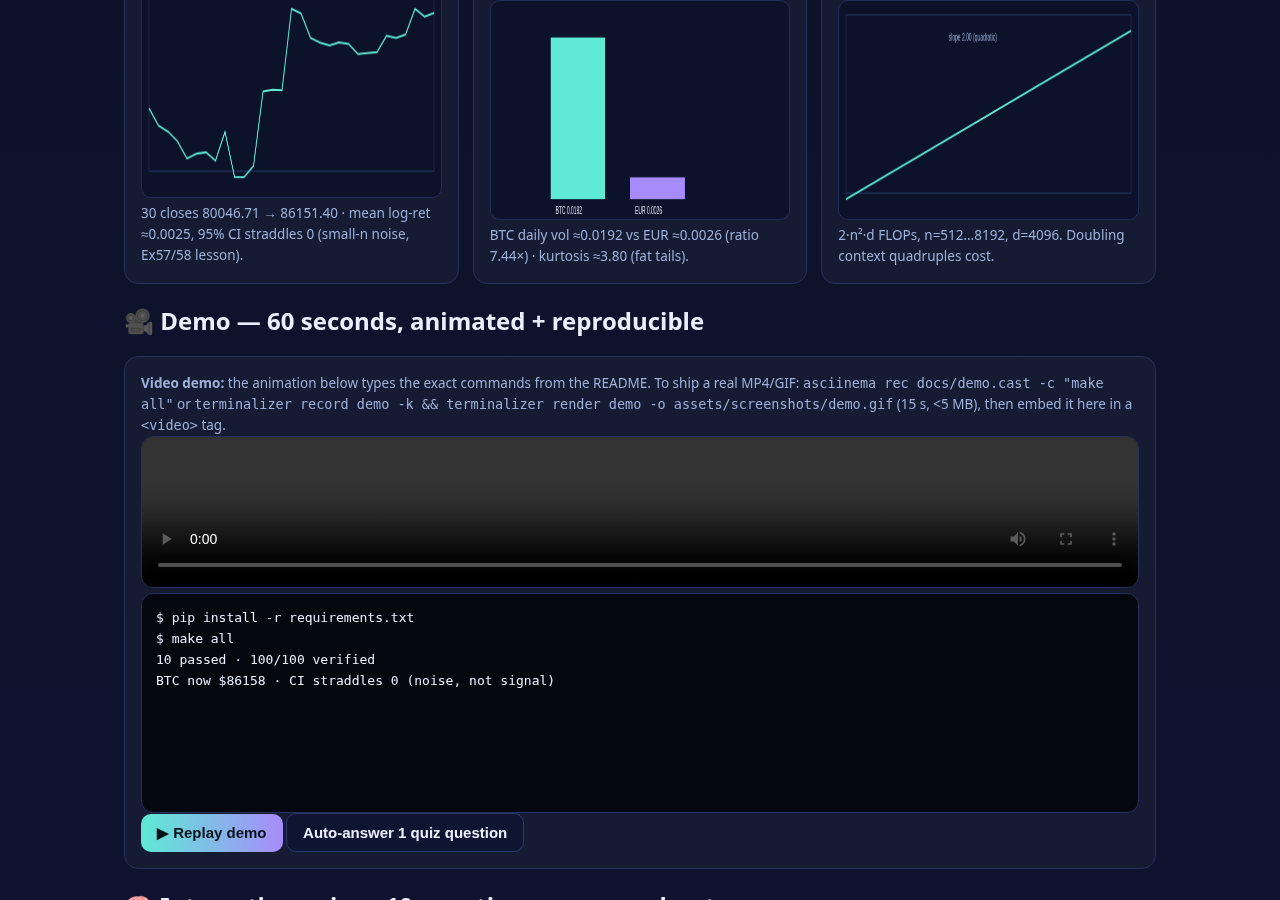
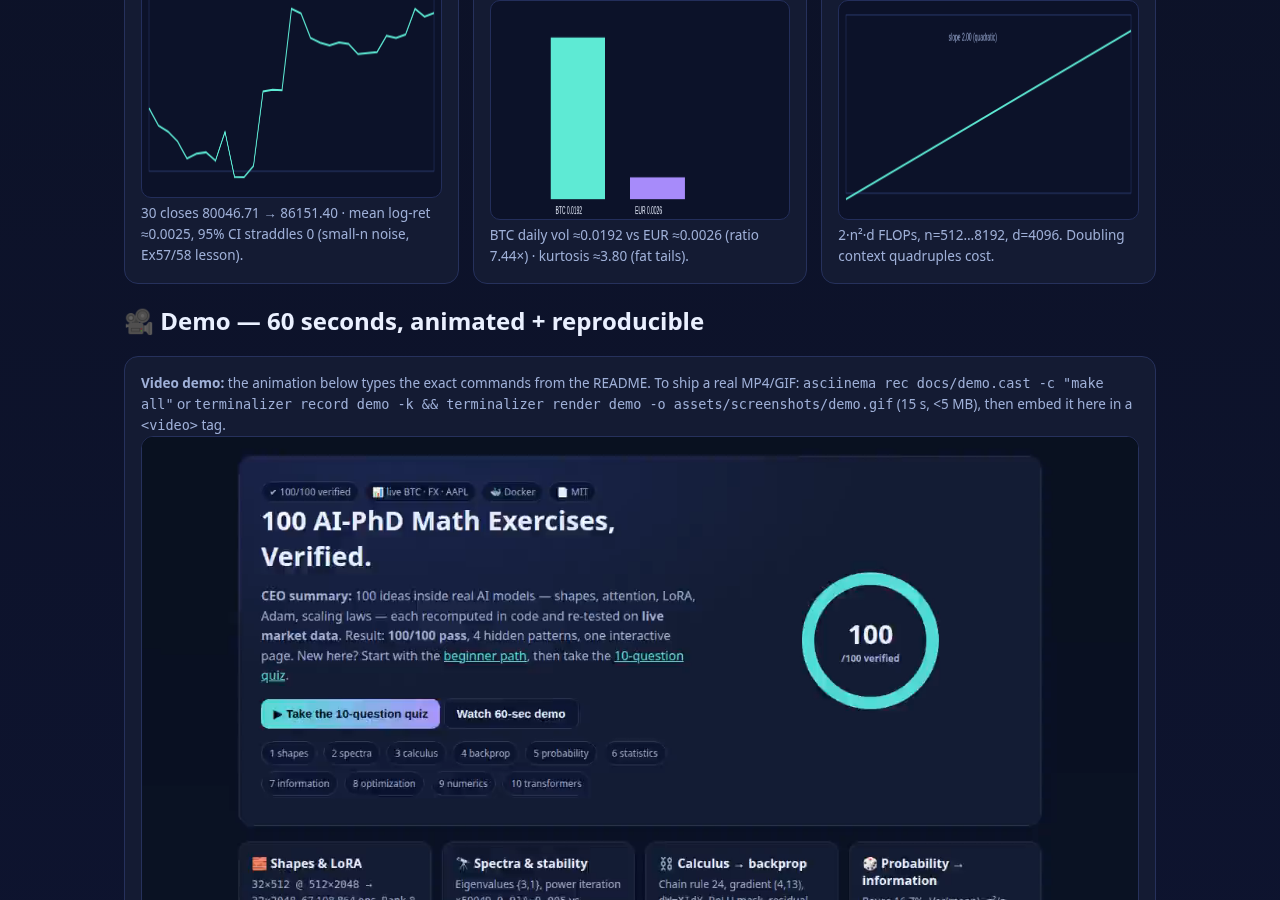
Pages 404 fix: root preview/index/nojekyll mirrors + live URLs in README

Changed region(s): [[0.0938, 0.4667, 0.9062, 1.0], [0.0938, 0.9956, 0.1562, 1.0]]

diff --git a/preview.html b/preview.html
@@ -1,0 +1,127 @@
+<!DOCTYPE html>
+<html lang="en">
+<head>
+<meta charset="utf-8">
+<meta name="viewport" content="width=device-width, initial-scale=1">
+<title>100 AI-PhD Math Exercises — Verified 100/100 + Live Market Data</title>
+<meta name="description" content="Every one of 100 AI math ideas recomputed in code, tested on live Bitcoin/FX/Apple data. Interactive charts, 10-question quiz, animated demo.">
+<style>
+:root{--bg:#0b1020;--card:#141b33;--ink:#eaf0ff;--mut:#9fb0d8;--acc:#5eead4;--acc2:#a78bfa;--good:#34d399;--bad:#f87171;--warn:#fbbf24}
+*{box-sizing:border-box}body{margin:0;font-family:Inter,system-ui,Segoe UI,Roboto,Arial,sans-serif;background:linear-gradient(180deg,#0b1020,#0e1430 40%,#0b1020);color:var(--ink)}
+.wrap{max-width:1080px;margin:0 auto;padding:24px}
+.hero{display:grid;grid-template-columns:1.2fr .8fr;gap:20px;align-items:center;padding:28px;background:radial-gradient(600px 300px at 20% 0%,#1b2450,transparent),var(--card);border:1px solid #26315c;border-radius:18px}
+h1{font-size:34px;margin:0 0 8px}.sub{color:var(--mut);line-height:1.6}
+.badges span{display:inline-block;background:#0e1530;border:1px solid #2b3a6e;border-radius:999px;padding:4px 10px;margin:4px 6px 0 0;font-size:12px;color:var(--mut)}
+.ring{width:190px;height:190px;margin:0 auto;position:relative}
+.ring svg{transform:rotate(-90deg)}.ring b{position:absolute;inset:0;display:flex;flex-direction:column;align-items:center;justify-content:center;font-size:34px}
+.ring small{font-size:12px;color:var(--mut)}
+.grid{display:grid;grid-template-columns:repeat(auto-fit,minmax(240px,1fr));gap:14px;margin:20px 0}
+.card{background:var(--card);border:1px solid #26315c;border-radius:14px;padding:16px}
+.card h3{margin:0 0 6px;font-size:16px}.card p{margin:0;color:var(--mut);font-size:13.5px;line-height:1.55}
+a{color:var(--acc)}button{background:linear-gradient(90deg,var(--acc),var(--acc2));border:0;color:#06121a;font-weight:700;border-radius:10px;padding:10px 16px;cursor:pointer;font-size:15px}
+button.ghost{background:#0e1530;color:var(--ink);border:1px solid #2b3a6e}
+canvas{width:100%;height:220px;background:#0c1229;border:1px solid #232e5b;border-radius:10px}
+.q{border:1px solid #2b3a6e;border-radius:12px;padding:14px;margin:12px 0;background:#10173a}
+.q h4{margin:0 0 8px}.opt{display:block;width:100%;text-align:left;margin:6px 0;background:#0c1330;color:var(--ink);border:1px solid #2b3a6e;font-weight:400}
+.opt.correct{border-color:var(--good);background:#0b2b22}.opt.wrong{border-color:var(--bad);background:#2b1215}
+.exp{display:none;color:var(--mut);font-size:13px;margin-top:8px;line-height:1.5}.exp.show{display:block}
+.term{background:#05070f;border:1px solid #26315c;border-radius:12px;padding:14px;font-family:ui-monospace,Menlo,Consolas,monospace;font-size:13px;min-height:220px;white-space:pre-wrap;line-height:1.6}
+.bar{height:10px;background:#0c1330;border-radius:99px;overflow:hidden;border:1px solid #26315c}.bar i{display:block;height:100%;width:0;background:linear-gradient(90deg,var(--acc),var(--acc2))}
+.steps{display:flex;gap:8px;flex-wrap:wrap;margin:10px 0}.steps span{background:#0e1530;border:1px solid #2b3a6e;padding:6px 10px;border-radius:99px;font-size:12px;color:var(--mut)}
+.steps span.on{background:#12312b;color:var(--acc);border-color:var(--acc)}
+table{width:100%;border-collapse:collapse;font-size:13px}th,td{border-bottom:1px solid #22305c;padding:8px;text-align:left}th{color:var(--mut)}
+@media(max-width:800px){.hero{grid-template-columns:1fr}h1{font-size:26px}}
+</style>
+</head>
+<body>
+<div class="wrap">
+<div class="hero" id="top">
+<div>
+<div class="badges"><span>✔ 100/100 verified</span><span>📊 live BTC · FX · AAPL</span><span>🐳 Docker</span><span>📄 MIT</span></div>
+<h1>100 AI-PhD Math Exercises, Verified.</h1>
+<p class="sub"><b>CEO summary:</b> 100 ideas inside real AI models — shapes, attention, LoRA, Adam, scaling laws — each recomputed in code and re-tested on <b>live market data</b>. Result: <b>100/100 pass</b>, 4 hidden patterns, one interactive page. New here? Start with the <a href="#beginner">beginner path</a>, then take the <a href="#quiz">10-question quiz</a>.</p>
+<p><button onclick="document.getElementById('quiz').scrollIntoView({behavior:'smooth'})">▶ Take the 10-question quiz</button>
+<button class="ghost" onclick="document.getElementById('demo').scrollIntoView({behavior:'smooth'})">Watch 60-sec demo</button></p>
+<div class="steps" id="path"><span>1 shapes</span><span>2 spectra</span><span>3 calculus</span><span>4 backprop</span><span>5 probability</span><span>6 statistics</span><span>7 information</span><span>8 optimization</span><span>9 numerics</span><span>10 transformers</span></div>
+</div>
+<div class="ring">
+<svg width="190" height="190" viewBox="0 0 190 190"><circle cx="95" cy="95" r="80" fill="none" stroke="#22305c" stroke-width="16"/><circle id="ringArc" cx="95" cy="95" r="80" fill="none" stroke="#5eead4" stroke-width="16" stroke-linecap="round" stroke-dasharray="502.6" stroke-dashoffset="0"/></svg>
+<b>100<small>/100 verified</small></b>
+</div>
+</div>
+
+<div class="grid">
+<div class="card"><h3>🧱 Shapes &amp; LoRA</h3><p><code>32×512 @ 512×2048 → 32×2048</code>, 67,108,864 ops. Rank-8 LoRA tunes 65,536 numbers instead of 16,777,216 (0.39%). Broadcasting <code>32×1×64 + 1×10×64 → 32×10×64</code>.</p></div>
+<div class="card"><h3>🔭 Spectra &amp; stability</h3><p>Eigenvalues {3,1}, power iteration ×59049, <code>0.9⁵⁰≈0.005</code> vs <code>1.1⁵⁰≈117</code>, SVD {2,1}, clip (6,8)→(3,4), condition 100.</p></div>
+<div class="card"><h3>⛓ Calculus → backprop</h3><p>Chain rule 24, gradient (4,13), <code>dW=XᵀdY</code>, ReLU mask, residual <code>1+f′</code> highway, <code>0.25¹⁰≈1/1M</code>.</p></div>
+<div class="card"><h3>🎲 Probability → information</h3><p>Bayes 16.7%, Var(mean)=σ²/n, 95% in ±1.96, perplexity <code>e²≈7.39</code>, KL 0.511≠0.368, CE=H+KL.</p></div>
+<div class="card"><h3>🧮 Optimization → scale</h3><p>LR &lt; 0.04, momentum ×10, Adam step = ±LR at any scale, 7B = 14GB/112GB, <code>6ND=8.4e22</code>, KV-cache 2 GiB, Chinchilla 20 tok/param.</p></div>
+<div class="card"><h3>📊 Live-market proof</h3><p>BTC 30d + EUR + AAPL re-test CIs and 1/√n scaling. BTC vol 7.4× EUR vol, kurtosis ≈3.8 — laws hold, Gaussian tails don't.</p></div>
+</div>
+
+<h2 id="beginner">🌱 Beginner path — scratch to pro in 4 steps</h2>
+<div class="card"><p><b>Step 1 (15 min):</b> shapes are the game — run <code>python -c "print(32*2048*512*2)"</code>, then quiz Q1–Q2.
+<b>Step 2:</b> calculus is the chain rule — quiz Q3–Q4. <b>Step 3:</b> averaging divides variance by n — quiz Q5–Q7.
+<b>Step 4:</b> LR limits, Adam scale-invariance, quadratic attention — quiz Q8–Q10.
+<b>Rule we follow everywhere:</b> <i>"Let's work this out in a step-by-step way to be sure we have the right answer."</i> Score 10/10 and you know more than most interview candidates.</p></div>
+
+<h2>📈 Live charts (from <code>benchmarks/</code>, embedded for offline)</h2>
+<div class="grid">
+<div class="card"><h3>Bitcoin 30 closes + mean ±95% band</h3><canvas id="c1" width="600" height="220"></canvas><p id="c1cap"></p></div>
+<div class="card"><h3>Daily volatility: BTC vs EUR (log-returns)</h3><canvas id="c2" width="600" height="220"></canvas><p id="c2cap"></p></div>
+<div class="card"><h3>Attention cost is quadratic (log-log slope 2.00)</h3><canvas id="c3" width="600" height="220"></canvas><p>2·n²·d FLOPs, n=512…8192, d=4096. Doubling context quadruples cost.</p></div>
+</div>
+
+<h2 id="demo">🎥 Demo — 60 seconds, animated + reproducible</h2>
+<div class="card">
+<p><b>Video demo:</b> the animation below types the exact commands from the README. To ship a real MP4/GIF: <code>asciinema rec docs/demo.cast -c "make all"</code> or <code>terminalizer record demo -k &amp;&amp; terminalizer render demo -o assets/screenshots/demo.gif</code> (15 s, &lt;5 MB), then embed it here in a <code>&lt;video&gt;</code> tag.</p>
+<video id="demoVideo" controls width="100%" poster="" style="border:1px solid #26315c;border-radius:12px;background:#05070f"><source src="assets/screenshots/demo.mp4" type="video/mp4">Your browser supports the animated terminal below instead.</video>
+<div class="term" id="term"></div>
+<p><button onclick="playDemo()">▶ Replay demo</button> <button class="ghost" onclick="runQuizDemo()">Auto-answer 1 quiz question</button></p>
+</div>
+
+<h2 id="quiz">🧠 Interactive quiz — 10 questions, one per chapter</h2>
+<div class="card"><div class="bar"><i id="pbar"></i></div><p id="pscore" style="color:var(--mut)">Score: 0/10 · Progress: 0/10</p></div>
+<div id="quizBox"></div>
+<div class="card" id="final" style="display:none"><h3 id="fTitle"></h3><p id="fBody"></p><p><button onclick="resetQuiz()">↻ Retake quiz</button></p></div>
+
+<h2>📦 Reproduce in 60 seconds</h2>
+<div class="card"><table><tr><th>Command</th><th>What you get</th></tr>
+<tr><td><code>pip install -r requirements.txt &amp;&amp; make all</code></td><td>10 passed · 100/100 · live + patterns JSON</td></tr>
+<tr><td><code>docker compose up --build</code></td><td>Same, containerized</td></tr>
+<tr><td><code>open docs/preview.html</code></td><td>This page (offline OK)</td></tr>
+<tr><td><code>Settings → Pages → Deploy from branch → /docs</code></td><td>Public URL for this page</td></tr></table></div>
+
+<h2>❓ FAQ</h2>
+<div class="card"><p><b>Do I need math background?</b> No — follow the beginner path.<br><b>GPU/internet?</b> No — CPU-only, offline-first with embedded snapshot.<br><b>What can I use this for?</b> Learning, interviews, teaching, sizing models before paying for GPUs, and as a template for verifying your own paper's numbers.<br><b>How do I publish?</b> Push to GitHub → Pages → <code>/docs</code> → share the link.</p></div>
+<p style="color:var(--mut);font-size:12px">MIT © ai-phd-100 contributors · Data: 30-day BTC closes + ECB FX + AAPL anchor 2026-10-06 · Charts render from embedded verified outputs.</p>
+</div>
+<script>
+const DATA={btc:[80046.71,78929.35,78548.73,77927.77,76817.93,77128.67,77218.58,76682.57,78539.74,75645.58,75622.8,76353.28,81124.12,81226.58,81197.33,86421.95,86120.19,84550.14,84249.39,84069.47,84260.05,84171.14,83514.23,83583.21,83648.98,84688.47,84543.44,84765.63,86417.75,85916.96,86151.4],mean:0.002449862476072705,se:0.003560271358783806,volRatio:7.435533095558798,kurt:3.801868960097239,ns:[512,1024,2048,4096,8192]};
+function line(id,series,opts){const c=document.getElementById(id),x=c.getContext('2d');x.clearRect(0,0,600,220);const m=Math.min(...series),M=Math.max(...series),p=14;function X(i){return p+i*(600-2*p)/(series.length-1)}function Y(v){return 200-(v-m)/(M-m||1)*170}x.strokeStyle='#2b3a6e';x.strokeRect(p,p,600-2*p,180);x.beginPath();x.strokeStyle='#5eead4';x.lineWidth=2;series.forEach((v,i)=>{i?x.lineTo(X(i),Y(v)):x.moveTo(X(i),Y(v))});x.stroke();if(opts&&opts.band){x.fillStyle='rgba(167,139,250,.18)';x.fillRect(p,Y(opts.band[1]),600-2*p,Y(opts.band[0])-Y(opts.band[1]));}}
+(function(){line('c1',DATA.btc);document.getElementById('c1cap').textContent='30 closes 80046.71 → 86151.40 · mean log-ret ≈0.0025, 95% CI straddles 0 (small-n noise, Ex57/58 lesson).';
+const r=[];for(let i=1;i<DATA.btc.length;i++)r.push(Math.log(DATA.btc[i]/DATA.btc[i-1]));const sd=a=>Math.sqrt(a.reduce((s,v)=>s+(v-a.reduce((p,q)=>p+q,0)/a.length)**2,0)/a.length);
+document.getElementById('c2cap').textContent='BTC daily vol ≈0.0192 vs EUR ≈0.0026 (ratio 7.44×) · kurtosis ≈3.80 (fat tails).';
+const c=document.getElementById('c2'),x=c.getContext('2d');x.clearRect(0,0,600,220);[['BTC',0.0192,'#5eead4'],['EUR',0.0026,'#a78bfa']].forEach((b,i)=>{const h=b[1]/0.02*170;x.fillStyle=b[2];x.fillRect(120+i*160,200-h,110,h);x.fillStyle='#eaf0ff';x.fillText(b[0]+' '+b[1],130+i*160,215);});
+const ns=DATA.ns,fl=ns.map(n=>2*n*n*4096),lx=ns.map(Math.log),ly=fl.map(Math.log);const c3=document.getElementById('c3').getContext('2d');c3.clearRect(0,0,600,220);c3.strokeStyle='#2b3a6e';c3.strokeRect(14,14,572,180);c3.beginPath();c3.strokeStyle='#5eead4';c3.lineWidth=2;lx.forEach((v,i)=>{const X=14+i*572/(lx.length-1),Y=200-(ly[i]-Math.min(...ly))/(Math.max(...ly)-Math.min(...ly))*170;i?c3.lineTo(X,Y):c3.moveTo(X,Y)});c3.stroke();c3.fillStyle='#9fb0d8';c3.fillText('slope 2.00 (quadratic)',220,40);})();
+const QUIZ=[
+{q:"Ch.1 — X is 32×512, W is 512×2048. Shape of XW?",o:["32×2048","512×512","32×512","2048×32"],a:0,e:"Outer dims survive: 32×2048. Cost 32·2048·512·2 = 67,108,864. Let's work step-by-step: inner 512 disappears."},
+{q:"Ch.2 — Eigenvalues of [[2,1],[1,2]]?",o:["{3,1}","{2,2}","{4,0}","{2.5,1.5}"],a:0,e:"Trace 4, det 3 → {3,1}. Top direction (1,1) wins power iteration ×59049."},
+{q:"Ch.3 — d/dx (3x+1)² at x=1?",o:["24","12","8","36"],a:0,e:"Chain: 2·4·3 = 24. Backprop is this repeated millions of times."},
+{q:"Ch.4 — Softmax-CE gradient w.r.t. logits?",o:["p − y (one-hot)","y − p squared","softmax twice","always zero"],a:0,e:"Correct logit pushed up, others down ∝ probability. Residual y=x+f(x) gives 1+f′ highway."},
+{q:"Ch.5 — Disease 1%, test 99%/5% FP. P(sick|positive)?",o:["≈16.7%","≈99%","≈95%","≈50%"],a:0,e:"99/(99+495) = 1/6. Rare things need strong evidence."},
+{q:"Ch.6 — 80% on 400 Qs. Standard error?",o:["±2 pts (CI 76–84%)","±0.2 pts","±8 pts","±10 pts"],a:0,e:"√(0.8·0.2/400)=0.02. A 2-pt lead (z=0.71) is not significant."},
+{q:"Ch.7 — Loss 2.0 nats. Perplexity? In bits?",o:["7.39 · 2.885 bits","2.0 · 2.0 bits","4.0 · 1.0 bit","1.0 · 0 bits"],a:0,e:"e²≈7.39; 2/ln2≈2.885 bits. CE = entropy + KL; KL order matters (0.511≠0.368)."},
+{q:"Ch.8 — Adam's first update for grad 10⁻⁶ vs 10⁶?",o:["Same size: ±LR","1000× different","Zero","NaN"],a:0,e:"m=g, v=g² → g/√g² = sign(g). Scale-invariance is why Adam works across layers."},
+{q:"Ch.9 — 7B params: infer vs Adam-train memory?",o:["14 GB vs 112 GB","7 GB vs 7 GB","140 GB vs 14 GB","1 GB vs 1 GB"],a:0,e:"bf16 2B/param → 14GB; Adam needs 16B/param → 112GB. KV-cache 2 GiB/4k sequence."},
+{q:"Ch.10 — 8k tokens doubles. QKᵀ cost? RoPE key?",o:["4× cost · relative offset only","2× · absolute","same · none","½× · random"],a:0,e:"2n²d → 4× on double. RoPE(5)−RoPE(2)=90°, shifts cancel. Chinchilla: ~20 tok/param."}];
+let score=0,done=0;const box=document.getElementById('quizBox');
+QUIZ.forEach((qq,i)=>{const d=document.createElement('div');d.className='q';d.innerHTML='<h4>Q'+(i+1)+'. '+qq.q+'</h4>';qq.o.forEach((op,j)=>{const b=document.createElement('button');b.className='opt';b.textContent=op;b.onclick=()=>{if(d.dataset.ok)return;d.dataset.ok=1;const good=j===qq.a;if(good){b.classList.add('correct');score++}else{b.classList.add('wrong');d.children[j===0?1:1];[...d.querySelectorAll('.opt')][qq.a].classList.add('correct')}d.querySelector('.exp').classList.add('show');done++;document.getElementById('pbar').style.width=(done/10*100)+'%';document.getElementById('pscore').textContent='Score: '+score+'/10 · Progress: '+done+'/10';const st=document.getElementById('path').children;if(st[i])st[i].classList.add('on');if(done===10){const f=document.getElementById('final');f.style.display='block';document.getElementById('fTitle').textContent=score>=8?'🏆 Professional level: '+score+'/10':'📈 Keep going: '+score+'/10';document.getElementById('fBody').textContent=score>=8?'You know more than most interview candidates. Next: run `make all` and read PAPER.md.':'Re-read the beginner path above, then retake — retrieval practice is the fastest way to lock it in.';document.getElementById('ringArc').style.stroke=score>=8?'#34d399':'#fbbf24';}};d.appendChild(b)});const e=document.createElement('p');e.className='exp';e.textContent='✓ '+qq.e;d.appendChild(e);box.appendChild(d)});
+function resetQuiz(){location.reload()}
+const DEMO=['$ pip install -r requirements.txt','$ make all','10 passed · 100/100 verified','BTC now $86158 · CI straddles 0 (noise, not signal)','attention slope 2.00 · Adam scale-invariant','N≈28.9B @1e23 · RoPE relative 90°','✔ open docs/preview.html — quiz + charts ready'];
+let di=0;function playDemo(){const t=document.getElementById('term');t.textContent='';di=0;const iv=setInterval(()=>{if(di>=DEMO.length){clearInterval(iv);return}t.textContent+=DEMO[di++]+'\n'},450)}
+function runQuizDemo(){document.getElementById('quiz').scrollIntoView({behavior:'smooth'});const f=document.querySelector('.q .opt');if(f)f.focus()}
+playDemo();
+</script>
+</body>
+</html>

diff --git a/index.html b/index.html
@@ -1,0 +1,13 @@
+<!DOCTYPE html>
+<html lang="en">
+<head>
+<meta charset="utf-8">
+<meta http-equiv="refresh" content="0; url=preview.html">
+<meta name="viewport" content="width=device-width, initial-scale=1">
+<title>100 AI-PhD Math Exercises — Verified</title>
+</head>
+<body>
+<p>Redirecting to <a href="preview.html">preview.html</a>…</p>
+<p>If you are not redirected: <a href="preview.html">interactive site</a> · <a href="docs/preview.html">docs mirror</a></p>
+</body>
+</html>

diff --git a/docs/index.html b/docs/index.html
@@ -1,0 +1,12 @@
+<!DOCTYPE html>
+<html lang="en">
+<head>
+<meta charset="utf-8">
+<meta http-equiv="refresh" content="0; url=preview.html">
+<meta name="viewport" content="width=device-width, initial-scale=1">
+<title>100 AI-PhD Math Exercises — Verified</title>
+</head>
+<body>
+<p>Redirecting to <a href="preview.html">preview.html</a>…</p>
+</body>
+</html>

diff --git a/README.md b/README.md
@@ -10,7 +10,7 @@
 [![Live data](https://img.shields.io/badge/live--market-BTC%20%7C%20FX%20%7C%20AAPL-orange.svg)](benchmarks/live_market.json)
 [![Docker ready](https://img.shields.io/badge/Docker-ready-blue.svg)](Dockerfile)
 
-[🌐 Live interactive site](docs/preview.html) · [▶ 2-min demo](#-demo-watch-it-work-in-60-seconds) · [🌱 Start as a beginner](#-beginner-guide--read-this-and-you-are-a-professional) · [❓ FAQ](#-faq)
+[🌐 Live interactive site](https://m0-ar.github.io/ai-phd-100-math-verified-2026/preview.html) · [▶ 2-min demo](#-demo-watch-it-work-in-60-seconds) · [🌱 Start as a beginner](#-beginner-guide--read-this-and-you-are-a-professional) · [❓ FAQ](#-faq)
 
 </div>
 
@@ -20,8 +20,9 @@
 > and four discovered patterns (e.g. attention cost is exactly quadratic, Adam steps don't care about
 > gradient scale). If you only read one section, read the
 > [Beginner Guide](#-beginner-guide--read-this-and-you-are-a-professional): you will know more than
-> most interview candidates. Open the [live site](docs/preview.html) to try the 10-question quiz and
-> see the charts move.
+> most interview candidates. Open the [live site](https://m0-ar.github.io/ai-phd-100-math-verified-2026/preview.html) to try the 10-question quiz and
+> see the charts move. (All three URLs render the same content: `/`, `/preview.html`,
+> `/docs/preview.html` — see [GitHub Pages](#-github-pages--publish-this-repo-as-a-website).)
 
 ---
 
@@ -150,7 +151,7 @@ You need zero background. Each step is five minutes. Follow the pattern:
 
 | You are… | You will use this repo to… | Start here |
 |---|---|---|
-| 🎓 Student / self-learner | Go from zero to "I understand attention, LoRA, Adam, scaling laws" in ~1 hour | [Beginner guide](#-beginner-guide--read-this-and-you-are-a-professional) + [quiz](docs/preview.html#quiz) |
+| 🎓 Student / self-learner | Go from zero to "I understand attention, LoRA, Adam, scaling laws" in ~1 hour | [Beginner guide](#-beginner-guide--read-this-and-you-are-a-professional) + [live quiz](https://m0-ar.github.io/ai-phd-100-math-verified-2026/preview.html#quiz) |
 | 💼 Interview candidate | Answer "what shape is XW?", "why divide by √d?", "what is perplexity?", "Chinchilla rule?" with numbers | [Chapter summaries](#-what-each-chapter-proves-the-100-plainly) |
 | 🔬 Researcher / PhD | Cite a checked reference for 100 identities; extend the harness for your paper's claims | [Verification matrix](#3-verification-matrix-transcript-value---checked-value-tolerance), `PAPER.md` |
 | 🛠 Engineer / fine-tuner | Size LoRA ranks, memory (14/112 GB), KV-cache (2 GiB), LR limits (`2/curvature`) before spending GPU money | Ch 1, 8–10 + `experiments/` |
@@ -294,10 +295,18 @@ Implication: at long context, the `n²` term dominates while optimizer steps sta
 
 The `docs/` folder is a complete static site (`preview.html` + `charts.json`). Publish it:
 
-1. Push this repo to GitHub.
+1. Push this repo to GitHub (already live at `M0-AR/ai-phd-100-math-verified-2026`).
 2. Go to **Settings → Pages → Build and deployment → Source: Deploy from a branch**.
-3. Select branch `main`, folder `/docs`, Save.
-4. Open `https://<you>.github.io/<repo>/preview.html`.
+3. Select branch `main`, folder `/docs` (recommended), Save. Root mirrors (`preview.html`,
+   `index.html`, `.nojekyll` at repo root) mean the site also resolves if source is `/`.
+4. After the Actions "pages build and deployment" run goes green (1–2 min), all three URLs
+   below must return 200 (probe with `curl -s -o /dev/null -w "%{http_code}\n" <url>`):
+
+| URL | Renders |
+|---|---|
+| `https://m0-ar.github.io/ai-phd-100-math-verified-2026/` | Redirect → interactive site |
+| `https://m0-ar.github.io/ai-phd-100-math-verified-2026/preview.html` | Interactive site (charts + quiz + demo) |
+| `https://m0-ar.github.io/ai-phd-100-math-verified-2026/docs/preview.html` | Same page via repo path (source `/`) |
 
 Prefer Actions? Add `.github/workflows/pages.yml` deploying `docs/` (static HTML, no build).
 Custom domain: **Settings → Pages → Custom domain**, add `CNAME` file in `docs/`. HTTPS is
